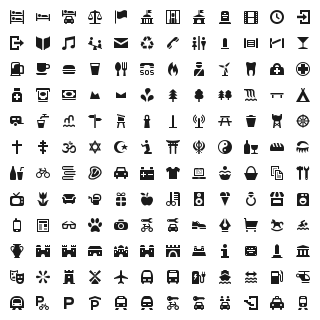
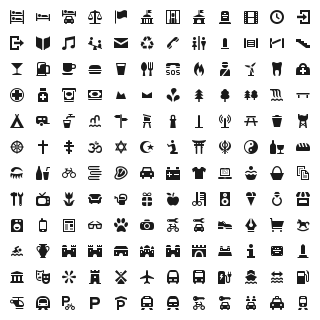
remove subway-entrance and add steps (resolves #40)

diff --git a/font/osmic-preview.html b/font/osmic-preview.html
@@ -283,7 +283,7 @@
 .oc-sikhist:before,
 .oc-spring:before,
 .oc-stationery:before,
-.oc-subway-entrance:before,
+.oc-steps:before,
 .oc-supermarket:before,
 .oc-swimming:before,
 .oc-table:before,
@@ -441,7 +441,7 @@
 .oc-sikhist:before { content: "\f161"; }
 .oc-spring:before { content: "\f162"; }
 .oc-stationery:before { content: "\f189"; }
-.oc-subway-entrance:before { content: "\f163"; }
+.oc-steps:before { content: "\f192"; }
 .oc-supermarket:before { content: "\f164"; }
 .oc-swimming:before { content: "\f173"; }
 .oc-table:before { content: "\f165"; }
@@ -2083,14 +2083,14 @@
       
       <div class="glyph">
         <div class="preview-glyphs">
-          <span class="step size-12"><span class="letters">Pp</span><i id="oc-subway-entrance" class="oc-subway-entrance"></i></span><span class="step size-14"><span class="letters">Pp</span><i id="oc-subway-entrance" class="oc-subway-entrance"></i></span><span class="step size-16"><span class="letters">Pp</span><i id="oc-subway-entrance" class="oc-subway-entrance"></i></span><span class="step size-18"><span class="letters">Pp</span><i id="oc-subway-entrance" class="oc-subway-entrance"></i></span><span class="step size-21"><span class="letters">Pp</span><i id="oc-subway-entrance" class="oc-subway-entrance"></i></span><span class="step size-24"><span class="letters">Pp</span><i id="oc-subway-entrance" class="oc-subway-entrance"></i></span><span class="step size-36"><span class="letters">Pp</span><i id="oc-subway-entrance" class="oc-subway-entrance"></i></span><span class="step size-48"><span class="letters">Pp</span><i id="oc-subway-entrance" class="oc-subway-entrance"></i></span><span class="step size-60"><span class="letters">Pp</span><i id="oc-subway-entrance" class="oc-subway-entrance"></i></span><span class="step size-72"><span class="letters">Pp</span><i id="oc-subway-entrance" class="oc-subway-entrance"></i></span>
+          <span class="step size-12"><span class="letters">Pp</span><i id="oc-steps" class="oc-steps"></i></span><span class="step size-14"><span class="letters">Pp</span><i id="oc-steps" class="oc-steps"></i></span><span class="step size-16"><span class="letters">Pp</span><i id="oc-steps" class="oc-steps"></i></span><span class="step size-18"><span class="letters">Pp</span><i id="oc-steps" class="oc-steps"></i></span><span class="step size-21"><span class="letters">Pp</span><i id="oc-steps" class="oc-steps"></i></span><span class="step size-24"><span class="letters">Pp</span><i id="oc-steps" class="oc-steps"></i></span><span class="step size-36"><span class="letters">Pp</span><i id="oc-steps" class="oc-steps"></i></span><span class="step size-48"><span class="letters">Pp</span><i id="oc-steps" class="oc-steps"></i></span><span class="step size-60"><span class="letters">Pp</span><i id="oc-steps" class="oc-steps"></i></span><span class="step size-72"><span class="letters">Pp</span><i id="oc-steps" class="oc-steps"></i></span>
         </div>
         <div class="preview-scale">
           <span class="step">12</span><span class="step">14</span><span class="step">16</span><span class="step">18</span><span class="step">21</span><span class="step">24</span><span class="step">36</span><span class="step">48</span><span class="step">60</span><span class="step">72</span>
         </div>
         <div class="usage">
-          <input class="class" type="text" readonly="readonly" onClick="this.select();" value=".oc-subway-entrance" />
-          <input class="point" type="text" readonly="readonly" onClick="this.select();" value="&amp;#xf163;" />
+          <input class="class" type="text" readonly="readonly" onClick="this.select();" value=".oc-steps" />
+          <input class="point" type="text" readonly="readonly" onClick="this.select();" value="&amp;#xf192;" />
         </div>
       </div>
       

diff --git a/font/osmic.css b/font/osmic.css
@@ -146,7 +146,7 @@
 .oc-sikhist:before,
 .oc-spring:before,
 .oc-stationery:before,
-.oc-subway-entrance:before,
+.oc-steps:before,
 .oc-supermarket:before,
 .oc-swimming:before,
 .oc-table:before,
@@ -304,7 +304,7 @@
 .oc-sikhist:before { content: "\f161"; }
 .oc-spring:before { content: "\f162"; }
 .oc-stationery:before { content: "\f189"; }
-.oc-subway-entrance:before { content: "\f163"; }
+.oc-steps:before { content: "\f192"; }
 .oc-supermarket:before { content: "\f164"; }
 .oc-swimming:before { content: "\f173"; }
 .oc-table:before { content: "\f165"; }
